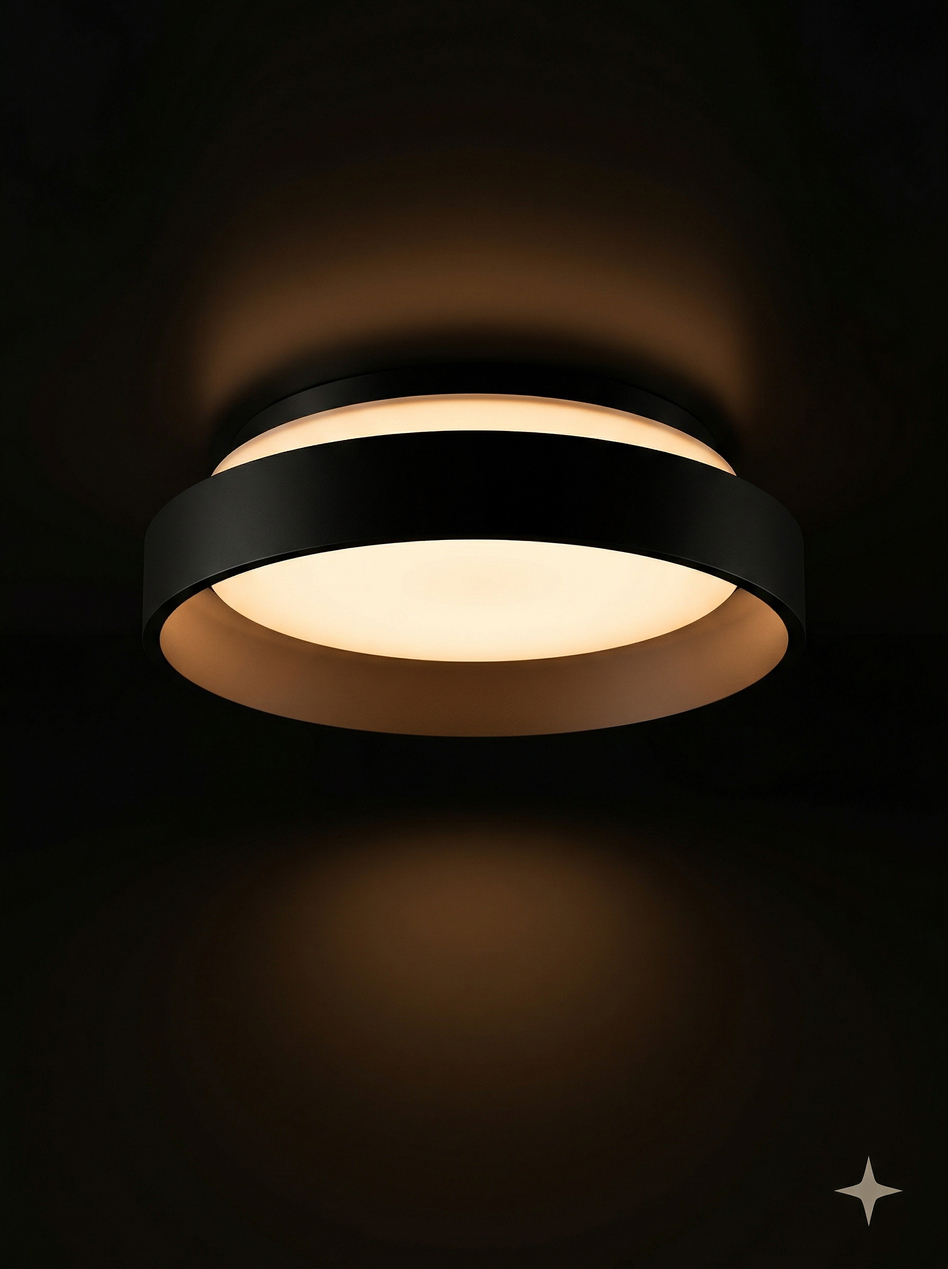
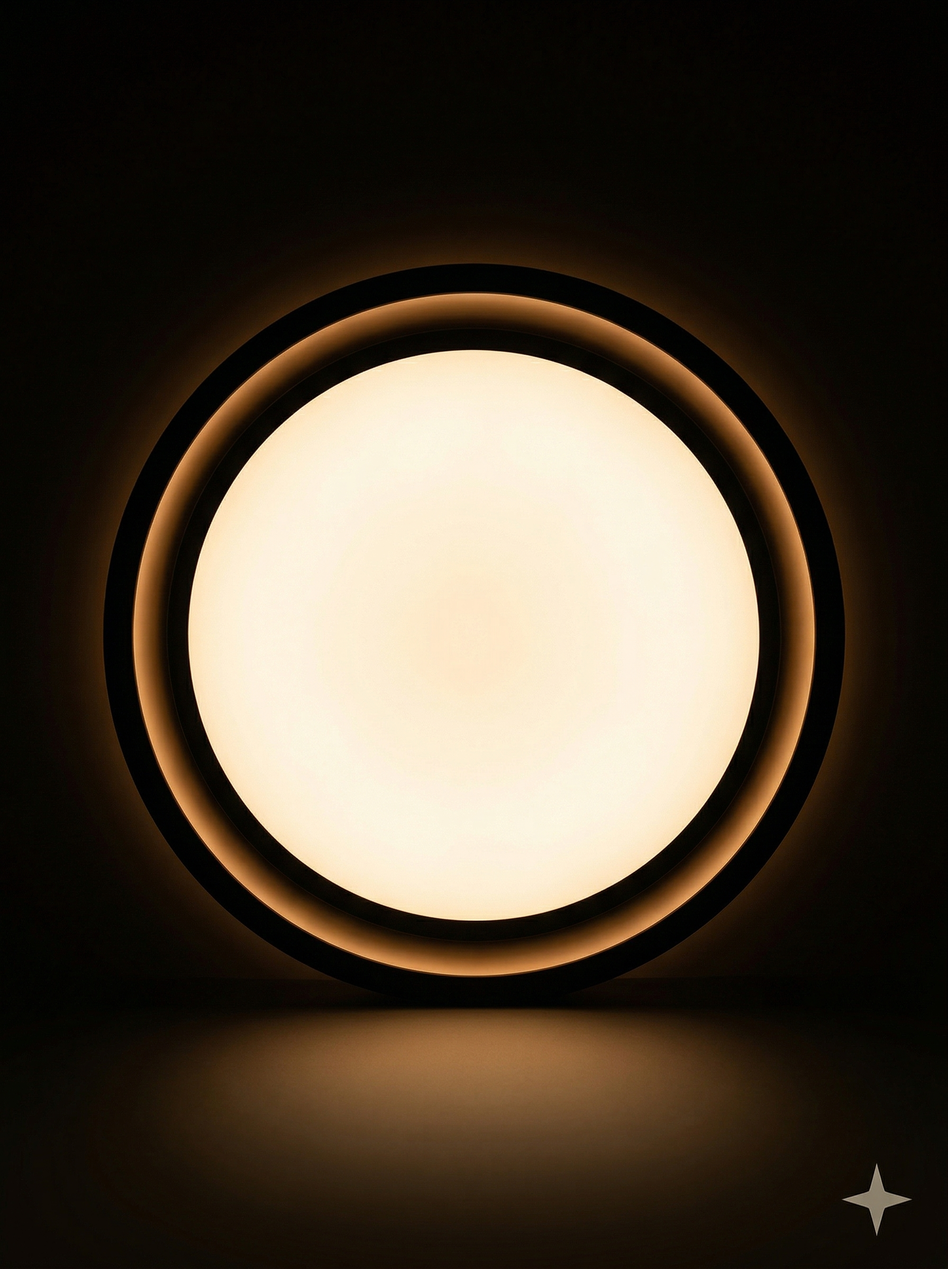
product image 20

diff --git a/src/data/products.js b/src/data/products.js
@@ -240,12 +240,12 @@ export const products = [
   },
   {
     id: 16,
-    title: 'Lumen Orbit',
-    description: '천체의 궤도에서 영감을 받은 조명입니다. 서로 다른 각도로 기울어진 세 개의 동심원 고리가 공중에서 교차하며, 각 고리가 독립적으로 빛을 방사합니다. 고리 사이로 투사되는 빛이 천장과 벽면에 행성 궤도 같은 그림자 패턴을 만들어냅니다.',
+    title: 'Lumen Cube',
+    description: '정육면체가 공중에 떠 있는 펜던트 조명입니다. 블랙 프레임이 프로스트 글라스 큐브를 감싸고, 단일 코드로 천장에서 내려옵니다. 단순한 기하학이 만드는 존재감으로 다이닝 테이블이나 카운터 위 공간을 정의합니다.',
     type: PRODUCT_TYPES.CEILING,
     mounting: MOUNTING_TYPES.FLUSH,
-    form: 'nested orbital rings with independent tilt axes',
-    lightPattern: 'multi-axis-orbital-scatter',
+    form: 'cubic pendant',
+    lightPattern: 'omnidirectional-cube-glow',
     lux: 310,
     kelvin: 3400,
     images: productAssets[16]?.images || [],
@@ -253,12 +253,12 @@ export const products = [
   },
   {
     id: 17,
-    title: 'Lumen Veil',
-    description: '얇은 직물이 공중에 떠 있는 듯한 곡면 조명입니다. 투광성 세라믹 소재를 통과한 빛이 안개처럼 부드럽게 확산되어 공간 전체를 감쌉니다. 바람에 흔들리는 커튼처럼 유기적인 곡선이 빛의 농도를 자연스럽게 변화시킵니다.',
-    type: PRODUCT_TYPES.CEILING,
-    mounting: MOUNTING_TYPES.FLUSH,
-    form: 'suspended curved translucent veil panel',
-    lightPattern: 'diffused-veil-cascade',
+    title: 'Lumen Dome',
+    description: '반구형 프로스트 글라스가 원형 베이스 위에 엎어진 데스크 조명입니다. 버섯 실루엣의 부드러운 곡면에서 빛이 전방위로 확산됩니다. 침대 옆, 서재, 거실 사이드 테이블 어디에나 자연스럽게 놓입니다.',
+    type: PRODUCT_TYPES.DESK,
+    mounting: MOUNTING_TYPES.FREESTANDING,
+    form: 'hemisphere desk lamp',
+    lightPattern: 'omnidirectional-diffuse',
     lux: 220,
     kelvin: 2700,
     images: productAssets[17]?.images || [],
@@ -266,12 +266,12 @@ export const products = [
   },
   {
     id: 18,
-    title: 'Lumen Helix',
-    description: 'DNA 이중나선에서 영감을 받은 스탠드 조명입니다. 두 줄기의 광원이 서로를 감아 올라가며 상승하는 빛의 궤적을 만듭니다. 나선을 따라 회전하는 빛이 천장에 소용돌이 패턴을 투사하여 공간에 역동적인 깊이감을 부여합니다.',
+    title: 'Lumen Capsule',
+    description: '수평 캡슐 형태의 발광체가 가느다란 수직 스탠드 위에 올라간 플로어 램프입니다. 알약 형태의 프로스트 글라스가 양쪽으로 부드러운 빛을 내보냅니다. 소파 옆이나 독서 공간에서 시선을 끄는 조형적 존재감을 제공합니다.',
     type: PRODUCT_TYPES.STAND,
     mounting: MOUNTING_TYPES.FLOOR,
-    form: 'double helix spiral tower',
-    lightPattern: 'ascending-spiral-trace',
+    form: 'capsule floor lamp',
+    lightPattern: 'horizontal-bidirectional',
     lux: 360,
     kelvin: 3500,
     images: productAssets[18]?.images || [],
@@ -279,12 +279,12 @@ export const products = [
   },
   {
     id: 19,
-    title: 'Lumen Moss',
-    description: '이끼가 벽면을 타고 번지듯 유기적으로 확장되는 모듈형 벽 조명입니다. 육각형 기반의 각 모듈이 자연의 군락처럼 불규칙하게 연결되며, 모듈 간 접합부에서 빛이 스며 나옵니다. 하나씩 추가하며 나만의 빛 지도를 만들 수 있습니다.',
+    title: 'Lumen Stack',
+    description: '동일한 원형 디스크 세 장이 일정 간격으로 수직 스택된 벽 조명입니다. 디스크 사이의 좁은 갭에서 빛이 수평으로 새어 나와 벽면에 세 줄의 빛 띠를 만듭니다. 단순한 반복이 만드는 리드미컬한 빛의 리듬.',
     type: PRODUCT_TYPES.WALL,
     mounting: MOUNTING_TYPES.WALL,
-    form: 'organic hexagonal modular cluster',
-    lightPattern: 'organic-seam-glow',
+    form: 'stacked disc wall light',
+    lightPattern: 'horizontal-gap-emission',
     lux: 170,
     kelvin: 3100,
     images: productAssets[19]?.images || [],
@@ -293,11 +293,11 @@ export const products = [
   {
     id: 20,
     title: 'Lumen Prism',
-    description: '빛의 굴절을 탐구하는 다면체 데스크 조명입니다. 불규칙한 크리스탈 형태의 각 면이 내부 광원을 미세하게 꺾어 책상 위에 기하학적 빛 패턴을 투사합니다. 놓는 각도에 따라 빛의 무늬가 달라져, 매 순간 다른 공간을 경험하게 됩니다.',
+    description: '삼각기둥 형태의 프로스트 글라스가 옆으로 눕혀진 데스크 조명입니다. 세 개의 면이 각각 다른 방향으로 빛을 굴절시켜 책상 위에 기하학적 빛 패턴을 만듭니다. 놓는 방향에 따라 빛의 각도가 달라집니다.',
     type: PRODUCT_TYPES.DESK,
     mounting: MOUNTING_TYPES.FREESTANDING,
-    form: 'irregular multi-faceted crystalline polyhedron',
-    lightPattern: 'refracted-geometric-cast',
+    form: 'pyramid prism desk lamp',
+    lightPattern: 'tri-face-refraction',
     lux: 190,
     kelvin: 4100,
     images: productAssets[20]?.images || [],
